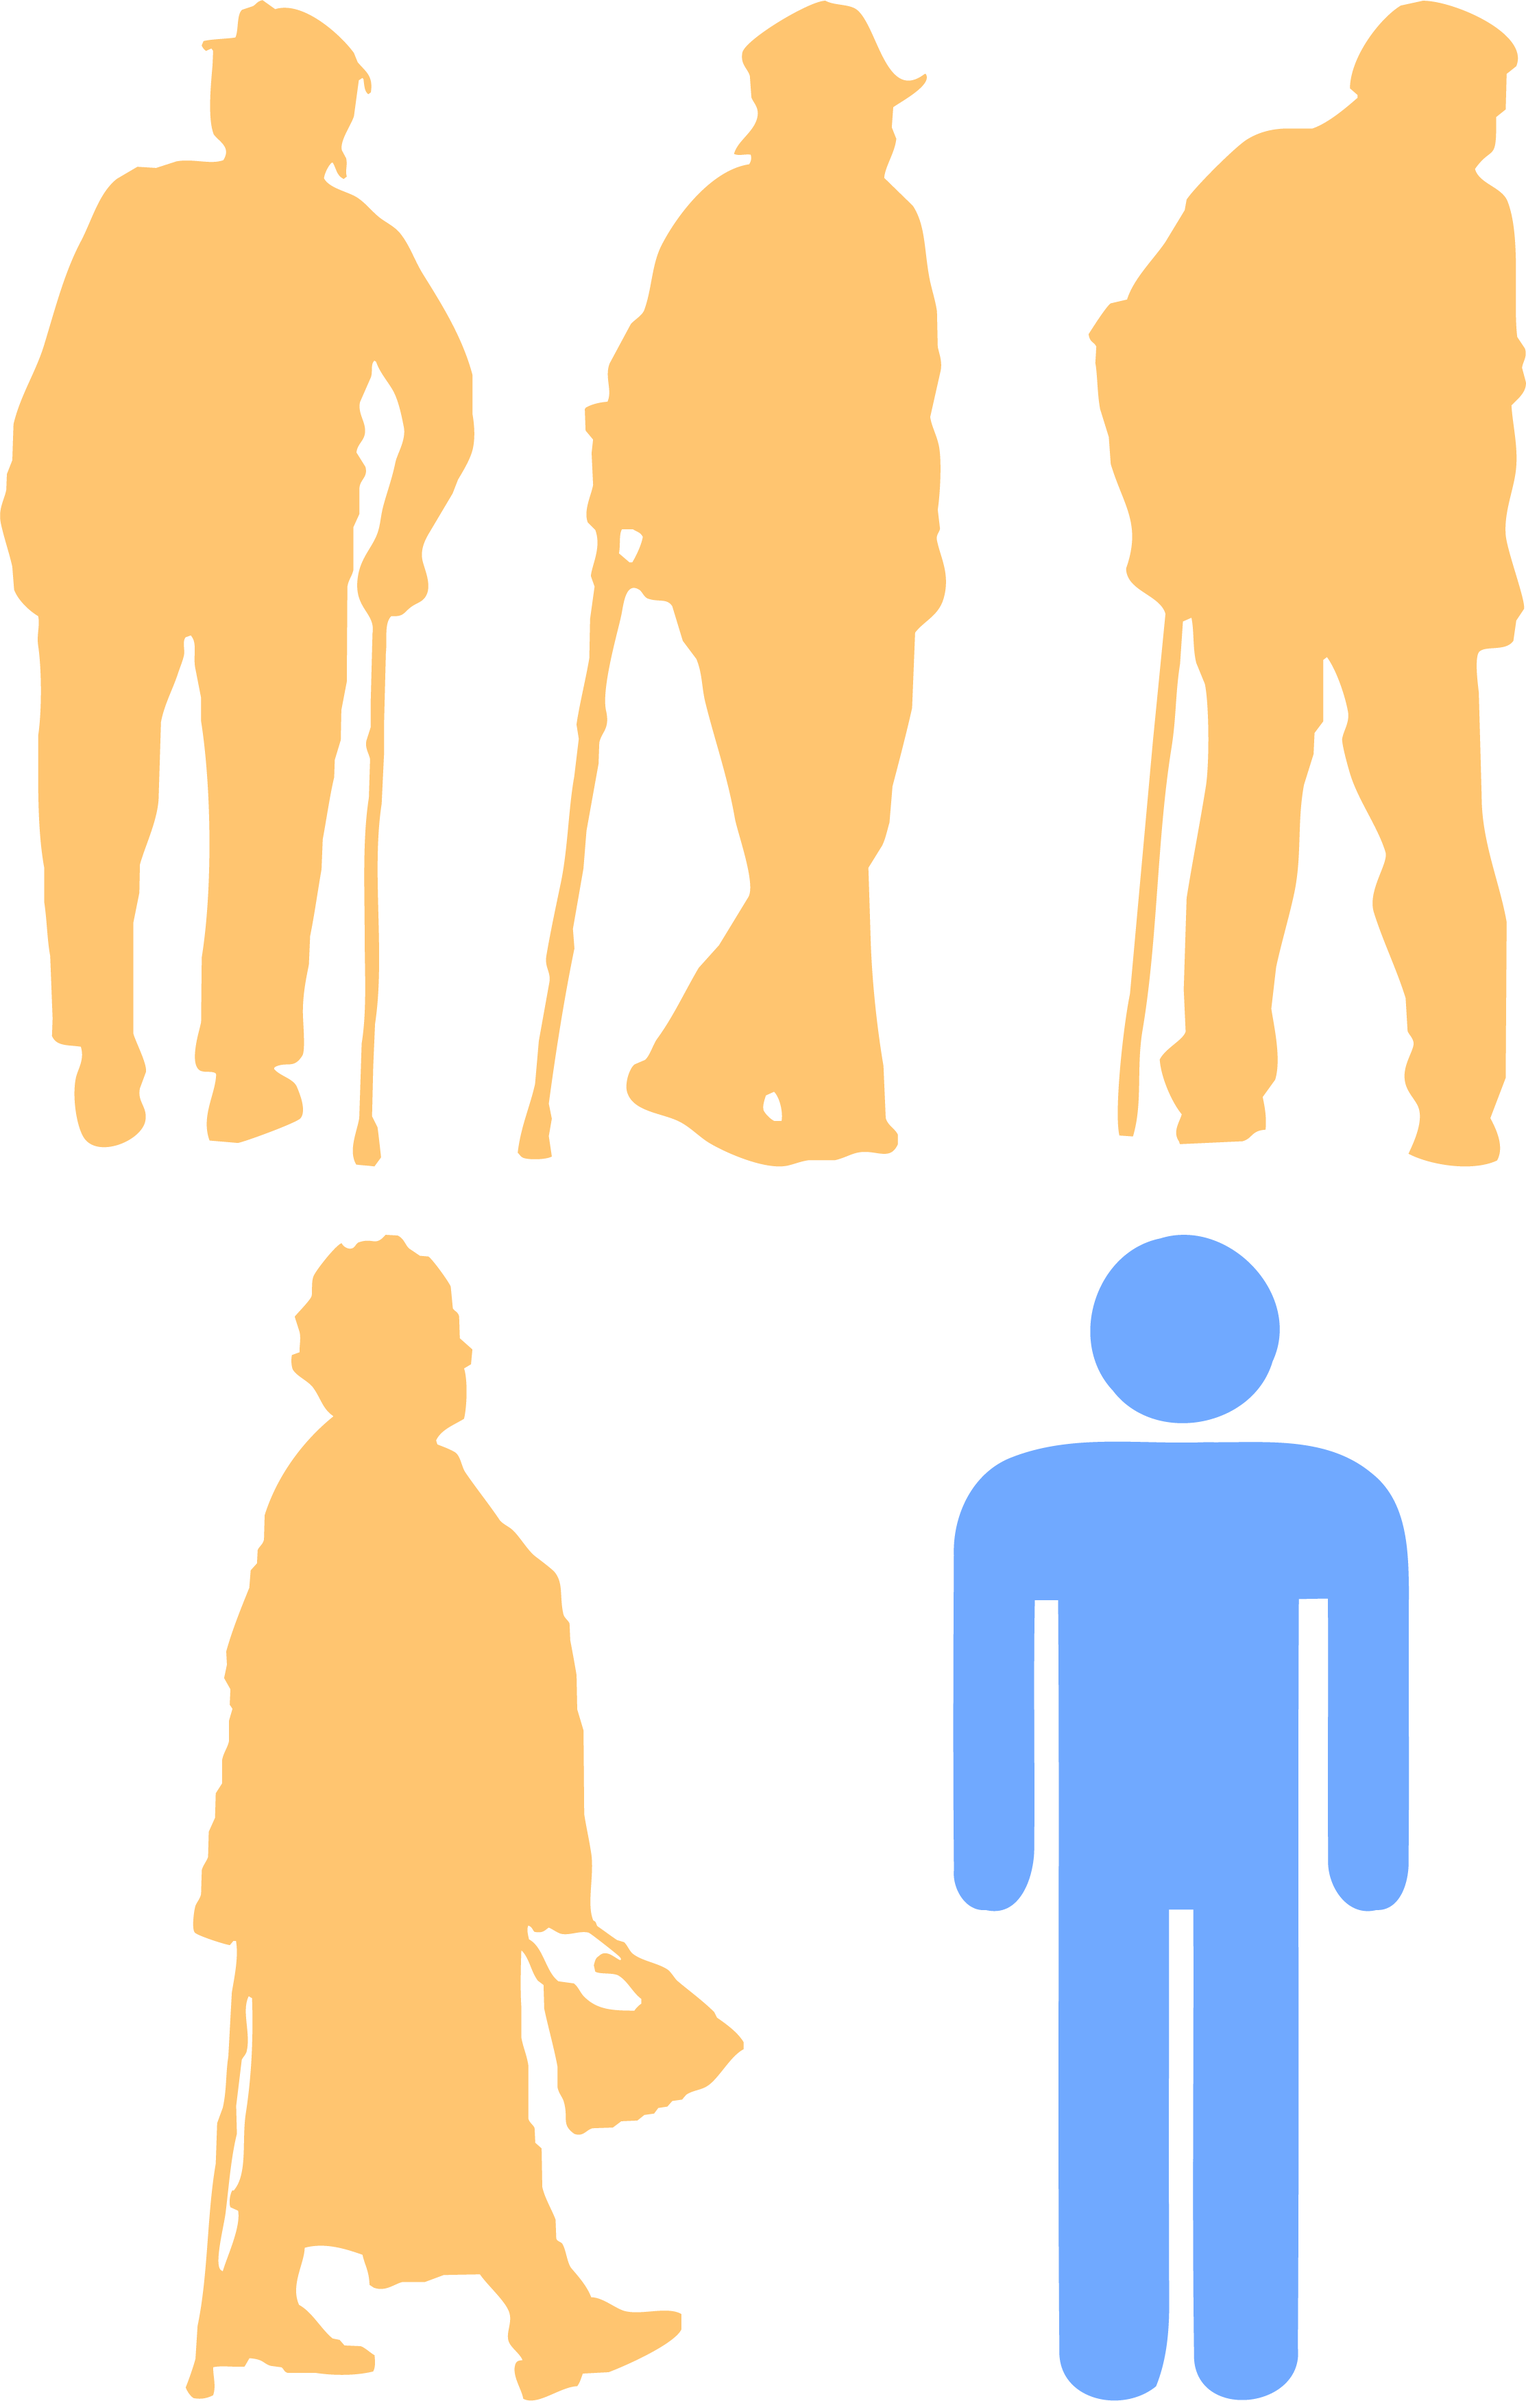
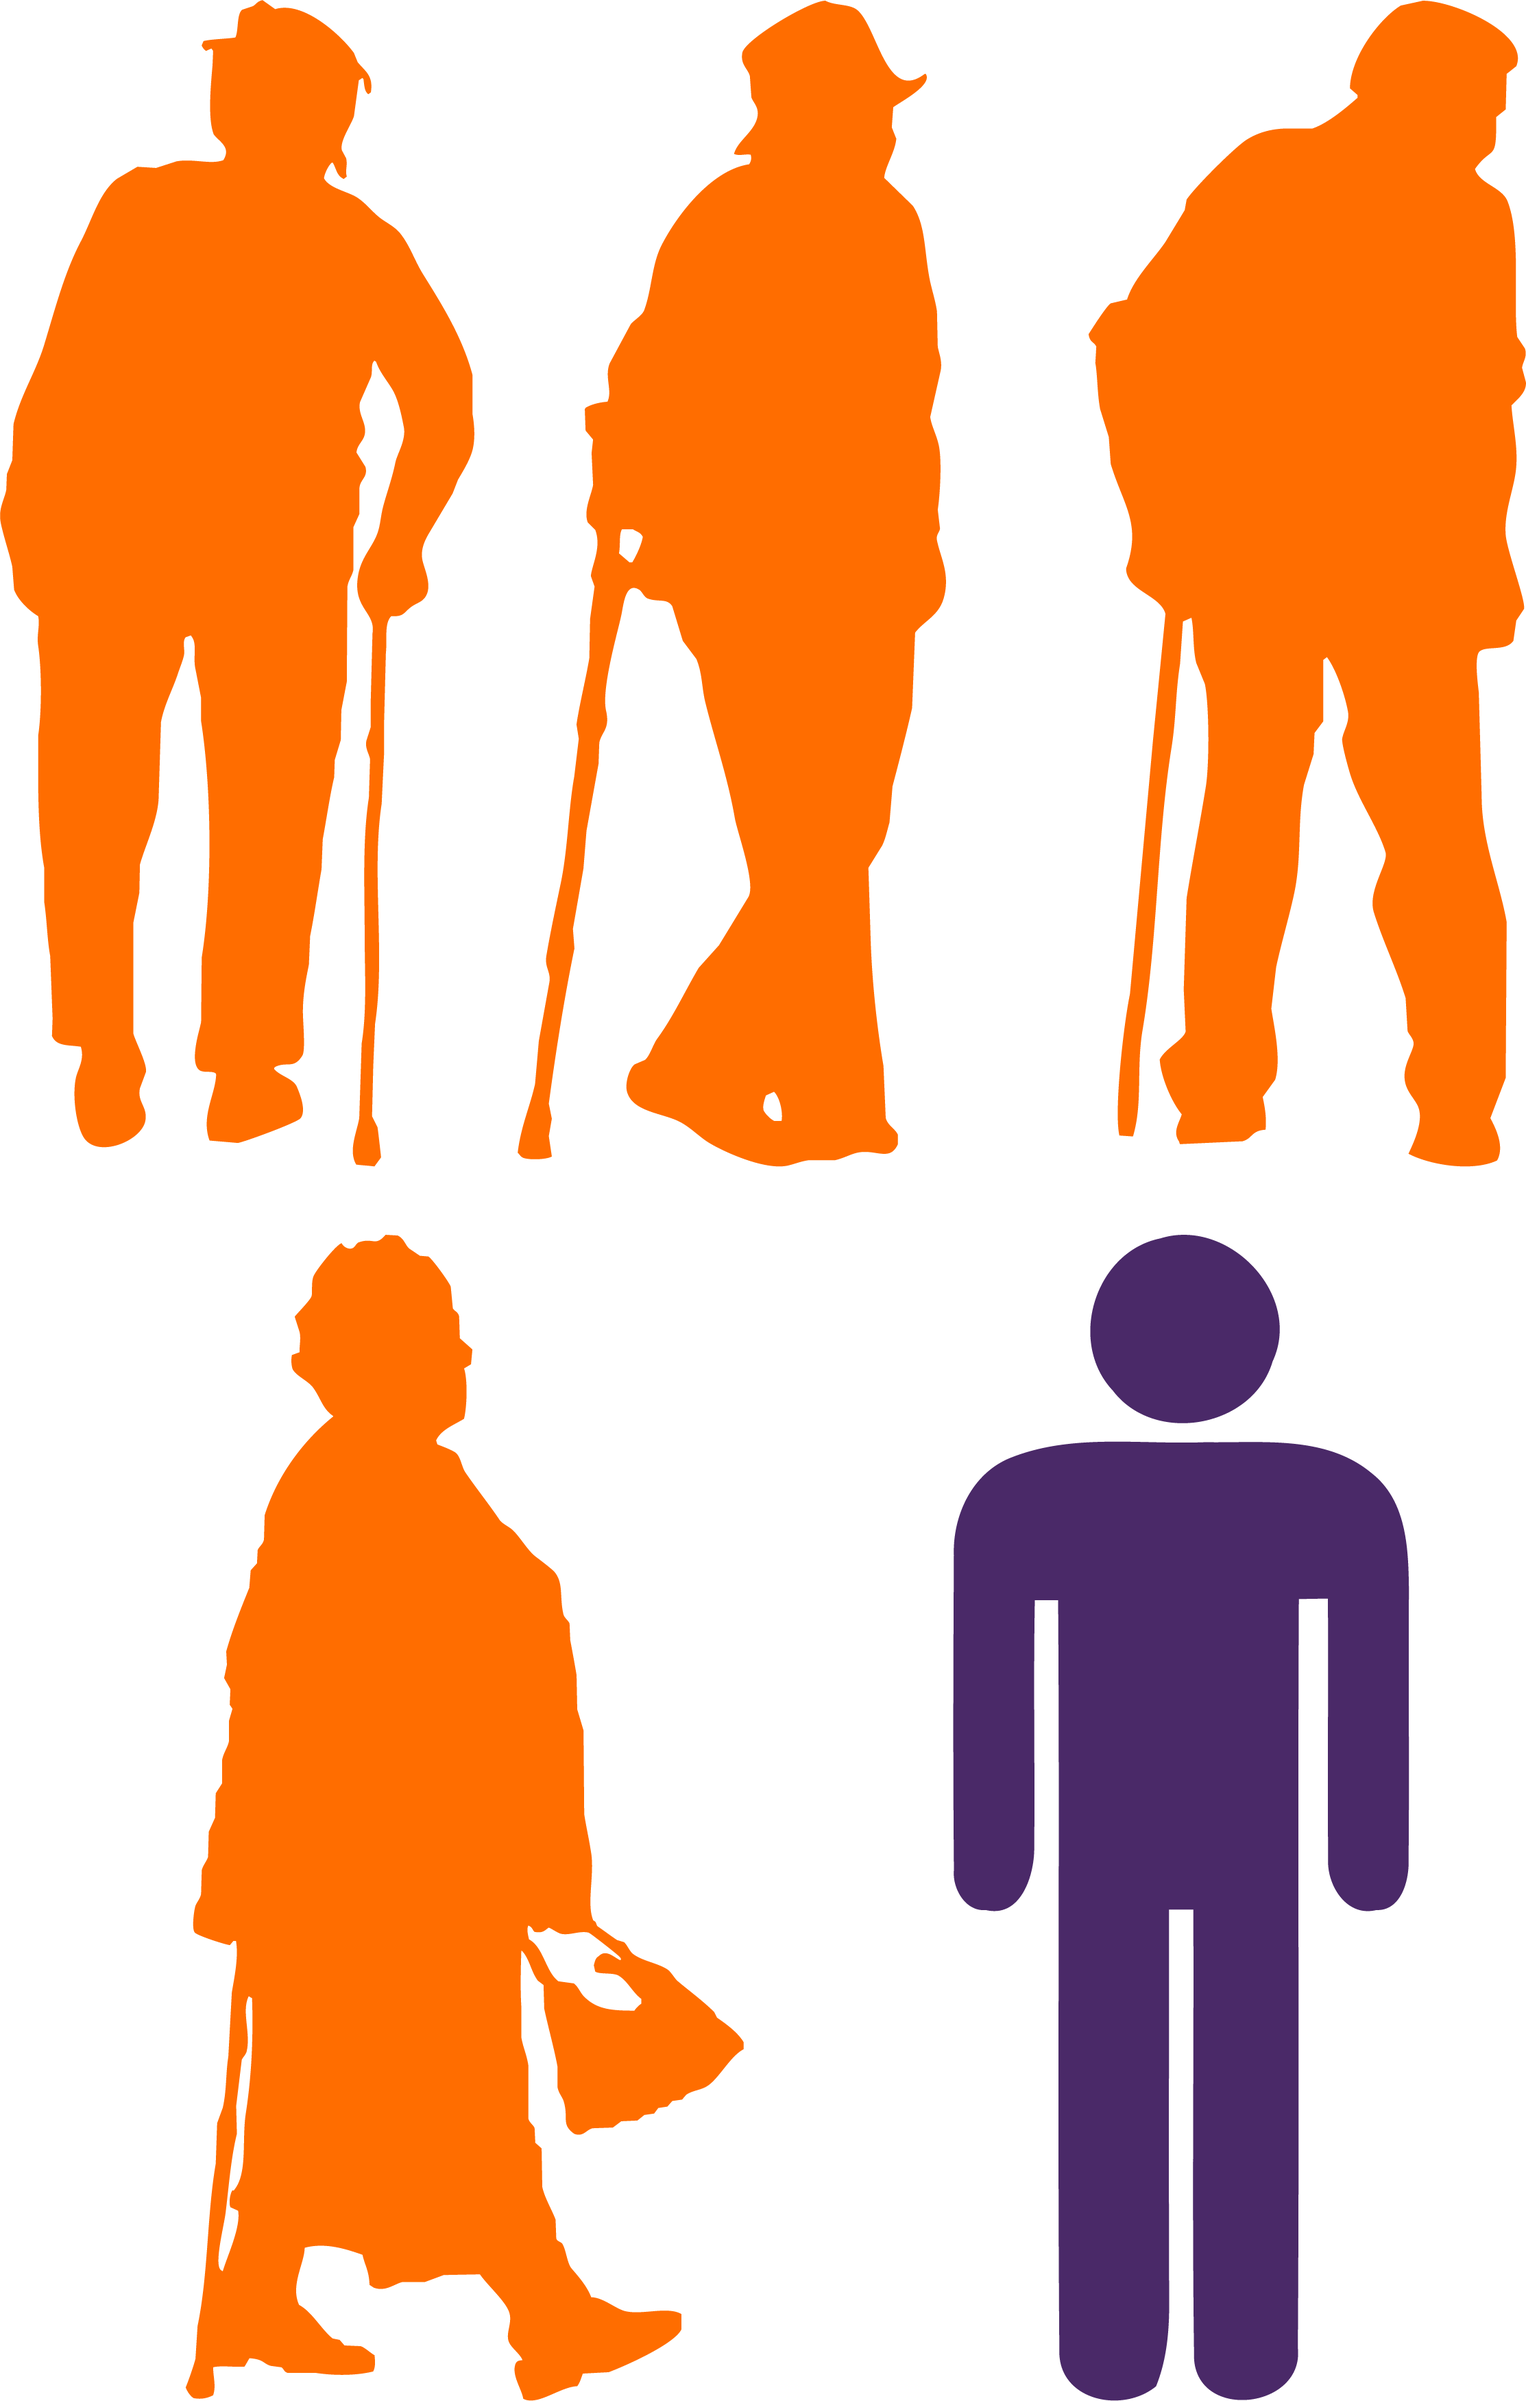
color scheme testing and added extra questions

diff --git a/heat-preparedness-ui/src/Quiz/HeatReadinessQuiz.js b/heat-preparedness-ui/src/Quiz/HeatReadinessQuiz.js
@@ -11,20 +11,32 @@ import { Link } from "react-scroll";
 import Slide from "@material-ui/core/Slide";
 import { makeStyles, useTheme } from "@material-ui/core/styles";
 import { QuizContext } from "../Contexts/QuizContext";
-import { QuestionOne } from "./QuizQuestions";
+import { QuestionOne, QuestionTwo, QuestionThree } from "./QuizQuestions";
 
 const useStyles = makeStyles((theme) => ({
   quizCard: {
-    backgroundColor: theme.palette.secondary.main,
+    backgroundColor: theme.palette.primary.light,
+    color: theme.palette.primary.contrastText,
     marginBottom: "1rem",
     padding: "1rem",
   },
-  quizButton: {
-    textTransform: "none",
-    marginBottom: "1rem",
-  },
   hideCard: {
     display: "none",
+  },
+  startQuizButton: {
+    background: theme.palette.primary.light,
+    color: theme.palette.primary.contrastText,
+    textTransform: "none",
+    marginBottom: "1rem",
+    "&:hover": {
+      backgroundColor: theme.palette.secondary.main,
+      color: theme.palette.secondary.contrastText,
+      marginBottom: "1rem",
+      textTransform: "none",
+    },
+    nextQuestionButton: {
+      color: "white",
+    },
   },
 }));
 
@@ -33,7 +45,7 @@ export default function HeatReadinessQuiz() {
   const classes = useStyles();
 
   const handleNext = () => {
-    if (question < 5) {
+    if (question < 4) {
       setQuestion((prevQuestion) => prevQuestion + 1);
     }
   };
@@ -61,7 +73,7 @@ export default function HeatReadinessQuiz() {
               fullWidth={true}
               color="secondary"
               onClick={() => setQuestion(0)}
-              className={classes.quizButton}
+              className={classes.startQuizButton}
             >
               <Typography variant="h4">
                 Take our Heat Readiness Quiz!
@@ -80,14 +92,16 @@ export default function HeatReadinessQuiz() {
           unmountOnExit
           timeout={1000}
         >
-          <Grid xs={12}>
+          <Grid xs={10}>
             <Card raised={true} className={classes.quizCard}>
               <CardHeader
                 title="
               Welcome to our Heat Readiness Quiz!"
               />
 
-              <Button onClick={handleNext}>Next Question</Button>
+              <Button onClick={handleNext} style={{ color: "white" }}>
+                Next Question
+              </Button>
             </Card>
           </Grid>
         </Slide>
@@ -99,10 +113,62 @@ export default function HeatReadinessQuiz() {
           unmountOnExit
           timeout={1000}
         >
-          <Grid item xs={12}>
+          <Grid item xs={10}>
             <Card raised={true} className={classes.quizCard}>
               <QuestionOne />
-              <Button onClick={handleNext}>Next Question</Button>
+              <Button onClick={handleNext} style={{ color: "white" }}>
+                Next Question
+              </Button>
+            </Card>
+          </Grid>
+        </Slide>
+        <Slide
+          in={question === 2 ? true : false}
+          className={question !== 2 && classes.hideCard}
+          direction="left"
+          mountOnEnter
+          unmountOnExit
+          timeout={1000}
+        >
+          <Grid item xs={10}>
+            <Card raised={true} className={classes.quizCard}>
+              <QuestionTwo />
+              <Button onClick={handleNext} style={{ color: "white" }}>
+                Next Question
+              </Button>
+            </Card>
+          </Grid>
+        </Slide>
+        <Slide
+          in={question === 3 ? true : false}
+          className={question !== 3 && classes.hideCard}
+          direction="left"
+          mountOnEnter
+          unmountOnExit
+          timeout={1000}
+        >
+          <Grid item xs={10}>
+            <Card raised={true} className={classes.quizCard}>
+              <QuestionThree />
+              <Button onClick={handleNext} style={{ color: "white" }}>
+                Next Question
+              </Button>
+            </Card>
+          </Grid>
+        </Slide>
+        <Slide
+          in={question === 4 ? true : false}
+          className={question !== 4 && classes.hideCard}
+          direction="left"
+          mountOnEnter
+          unmountOnExit
+          timeout={1000}
+        >
+          <Grid item xs={10}>
+            <Card raised={true} className={classes.quizCard}>
+              <CardContent>
+                <Typography>You finished the quiz!</Typography>
+              </CardContent>
             </Card>
           </Grid>
         </Slide>

diff --git a/heat-preparedness-ui/src/HeatWaves.js b/heat-preparedness-ui/src/HeatWaves.js
@@ -11,18 +11,30 @@ import Grid from "@material-ui/core/Grid";
 import ReactPlayer from "react-player";
 import { Link } from "react-scroll";
 import Button from "@material-ui/core/Button";
-import { useTheme } from "@material-ui/core/styles";
+import { useTheme, makeStyles } from "@material-ui/core/styles";
 import eightyPercent from "./images/eighty-percent.png";
 import Container from "@material-ui/core/Container";
 
+const useStyles = makeStyles((theme) => ({
+  active: {
+    //Style for active category button
+    background: theme.palette.primary.main,
+    color: theme.palette.primary.contrastText,
+    "&:hover": {
+      backgroundColor: theme.palette.secondary.main,
+      color: theme.palette.secondary.contrastText,
+    },
+  },
+}));
+
 export default function HeatWaves() {
   const theme = useTheme();
-
+  const classes = useStyles();
   const hazardData = [
-    { hazard: 1, deaths: 4555, fill: theme.palette.primary.main }, //Extreme heat
-    { hazard: 2, deaths: 1285, fill: theme.palette.secondary.main }, //Cyclones
-    { hazard: 3, deaths: 1221, fill: theme.palette.secondary.main }, //Floods
-    { hazard: 4, deaths: 866, fill: theme.palette.secondary.main }, //Bushfires
+    { hazard: 1, deaths: 4555, fill: theme.palette.secondary.main }, //Extreme heat
+    { hazard: 2, deaths: 1285, fill: theme.palette.primary.main }, //Cyclones
+    { hazard: 3, deaths: 1221, fill: theme.palette.primary.main }, //Floods
+    { hazard: 4, deaths: 866, fill: theme.palette.primary.main }, //Bushfires
   ];
 
   const deathData = [
@@ -121,7 +133,12 @@ export default function HeatWaves() {
             offset={-80}
             duration={700}
           >
-            <Button variant="contained" fullWidth={true} color="primary">
+            <Button
+              variant="contained"
+              fullWidth={true}
+              color="primary"
+              className={classes.active}
+            >
               <Typography variant="h6">Stay Alert!</Typography>
             </Button>
           </Link>

diff --git a/heat-preparedness-ui/src/Weather.js b/heat-preparedness-ui/src/Weather.js
@@ -1,6 +1,6 @@
 import React, { useState, useEffect } from "react";
 import Typography from "@material-ui/core/Typography";
-import { List, ListItem } from "@material-ui/core";
+import { List, ListItem, makeStyles } from "@material-ui/core";
 import TextField from "@material-ui/core/TextField";
 import Autocomplete from "@material-ui/lab/Autocomplete";
 import WarningIcon from "@material-ui/icons/Warning";
@@ -10,6 +10,18 @@ import HeatReadinessQuiz from "./Quiz/HeatReadinessQuiz";
 
 const axios = require("axios").default;
 
+const useStyles = makeStyles((theme) => ({
+  active: {
+    //Style for active category button
+    background: theme.palette.primary.main,
+    color: theme.palette.primary.contrastText,
+    "&:hover": {
+      backgroundColor: theme.palette.secondary.main,
+      color: theme.palette.secondary.contrastText,
+    },
+  },
+}));
+
 export default function Weather(weatherInformation) {
   const suburbData = weatherInformation["suburbList"];
 
@@ -17,6 +29,8 @@ export default function Weather(weatherInformation) {
   const [weatherData, setWeatherData] = React.useState([
     weatherInformation["weatherInformation"],
   ]);
+
+  const classes = useStyles();
 
   var currentSuburb = suburbData.filter(
     (suburb) => suburb.suburb_id === suburbId
@@ -115,7 +129,12 @@ export default function Weather(weatherInformation) {
         offset={-80}
         duration={700}
       >
-        <Button variant="contained" fullWidth={true} color="primary">
+        <Button
+          variant="contained"
+          fullWidth={true}
+          color="primary"
+          className={classes.active}
+        >
           <Typography variant="h6">Be Prepared!</Typography>
         </Button>
       </Link>

diff --git a/heat-preparedness-ui/src/Preparation.js b/heat-preparedness-ui/src/Preparation.js
@@ -15,14 +15,16 @@ const useStyles = makeStyles((theme) => ({
   active: {
     //Style for active category button
     background: theme.palette.primary.main,
-    color: "black",
+    color: theme.palette.primary.contrastText,
     "&:hover": {
       backgroundColor: theme.palette.secondary.main,
+      color: theme.palette.secondary.contrastText,
     },
   },
   inactive: {
     "&:hover": {
       backgroundColor: theme.palette.secondary.main,
+      color: theme.palette.secondary.contrastText,
     },
   },
 }));
@@ -145,7 +147,12 @@ export default function Preparation(preparationData) {
             duration={700}
           >
             {" "}
-            <Button variant="contained" fullWidth={true} color="primary">
+            <Button
+              variant="contained"
+              fullWidth={true}
+              color="primary"
+              className={classes.active}
+            >
               <Typography variant="h6">Take Precautions!</Typography>
             </Button>
           </Link>

diff --git a/heat-preparedness-ui/src/Advice/Advice.js b/heat-preparedness-ui/src/Advice/Advice.js
@@ -14,14 +14,16 @@ const useStyles = makeStyles((theme) => ({
   active: {
     //Style for active category button
     background: theme.palette.primary.main,
-    color: "black",
+    color: theme.palette.primary.contrastText,
     "&:hover": {
       backgroundColor: theme.palette.secondary.main,
+      color: theme.palette.secondary.contrastText,
     },
   },
   inactive: {
     "&:hover": {
       backgroundColor: theme.palette.secondary.main,
+      color: theme.palette.secondary.contrastText,
     },
   },
 }));

diff --git a/heat-preparedness-ui/src/index.js b/heat-preparedness-ui/src/index.js
@@ -20,12 +20,16 @@ const theme = createMuiTheme({
   palette: {
     white: "#FFFFFF",
     primary: {
+      light: "#785396",
       main: "#4a2968",
-      dark: "#dcc2df",
+      dark: "#1f013d",
       contrastText: "#FFFFFF",
     },
     secondary: {
+      light: "#ffa040",
       main: "#FF6D00",
+      dark: "#c43e00",
+      contrastText: "#000000",
     },
     cross: {
       main: "#ff4d29",

diff --git a/heat-preparedness-ui/src/Quiz/QuizQuestions.js b/heat-preparedness-ui/src/Quiz/QuizQuestions.js
@@ -10,7 +10,8 @@ import FormLabel from "@material-ui/core/FormLabel";
 
 const useStyles = makeStyles((theme) => ({
   quizCard: {
-    backgroundColor: theme.palette.secondary.main,
+    backgroundColor: theme.palette.primary.light,
+    color: theme.palette.primary.contrastText,
     marginBottom: "1rem",
   },
   quizButton: {

diff --git a/heat-preparedness-ui/src/Advice/QuickGuide/GuideContent.js b/heat-preparedness-ui/src/Advice/QuickGuide/GuideContent.js
@@ -20,7 +20,8 @@ const useStyles = makeStyles((theme) => ({
   cardContentStyle: {
     minHeight: "450px",
     padding: "1rem",
-    backgroundColor: theme.palette.secondary.main,
+    backgroundColor: theme.palette.primary.light,
+    color: theme.palette.primary.contrastText,
   },
   mediaCoffee: {
     height: 200,
